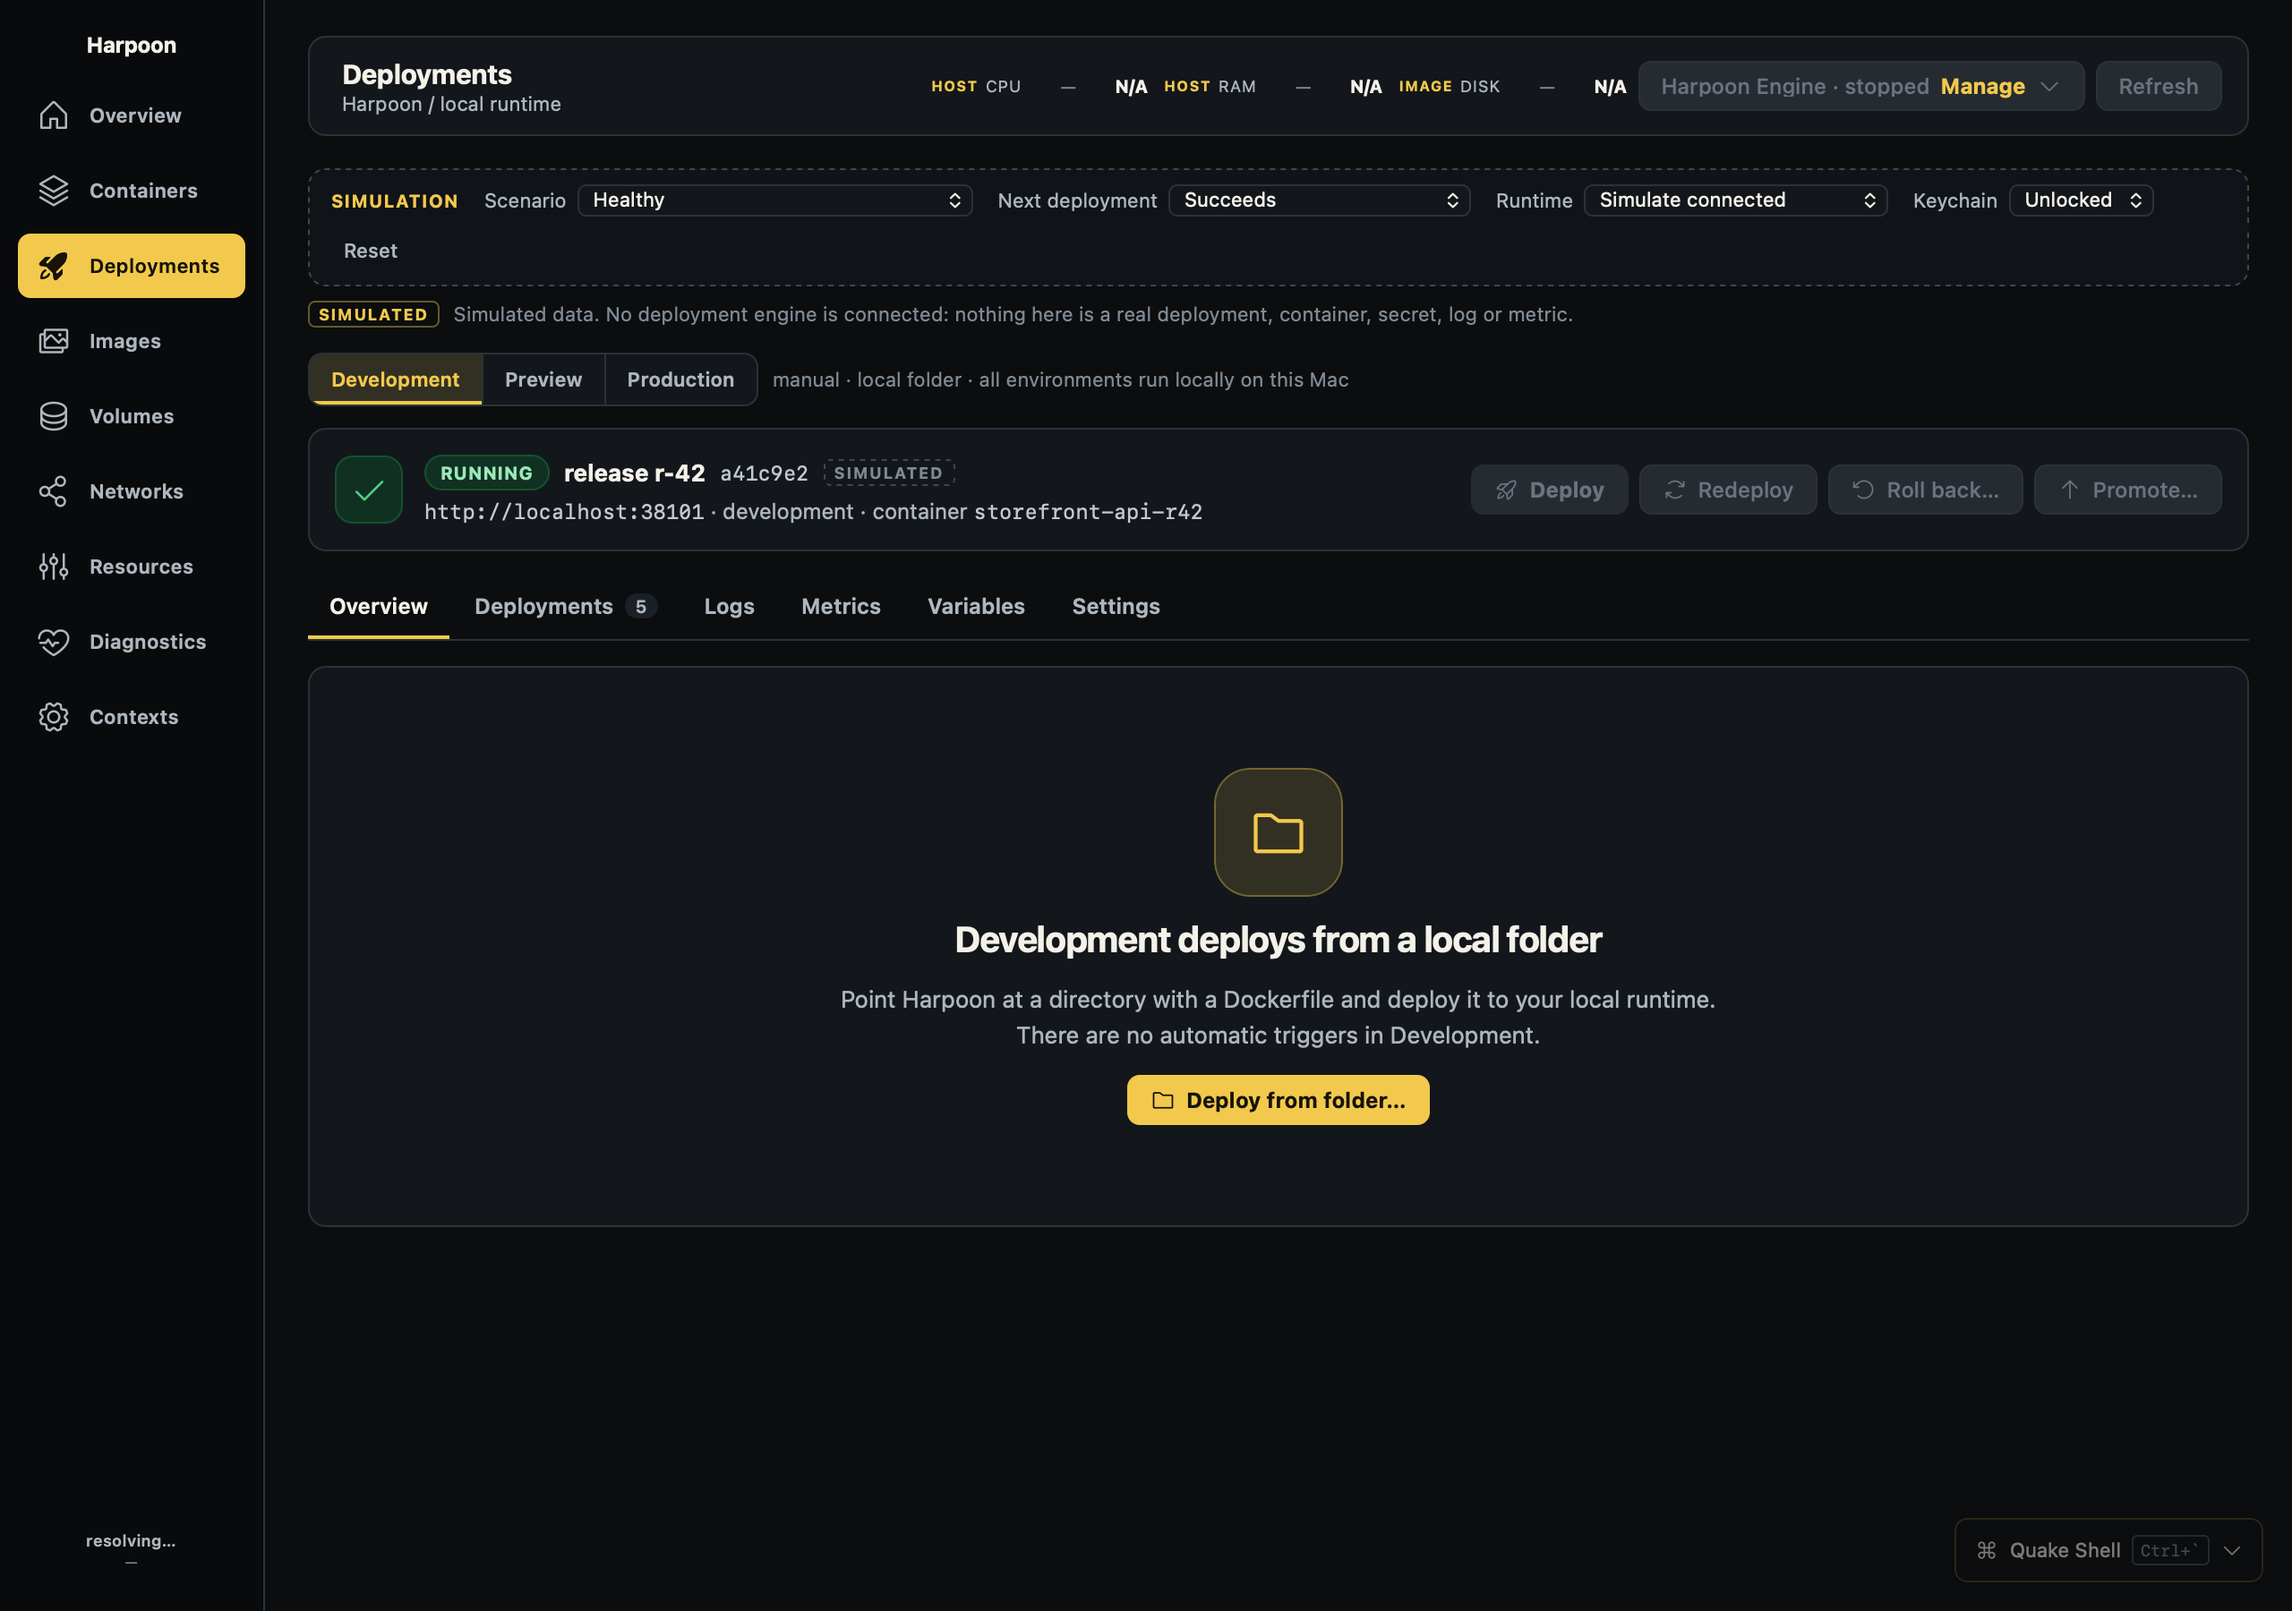
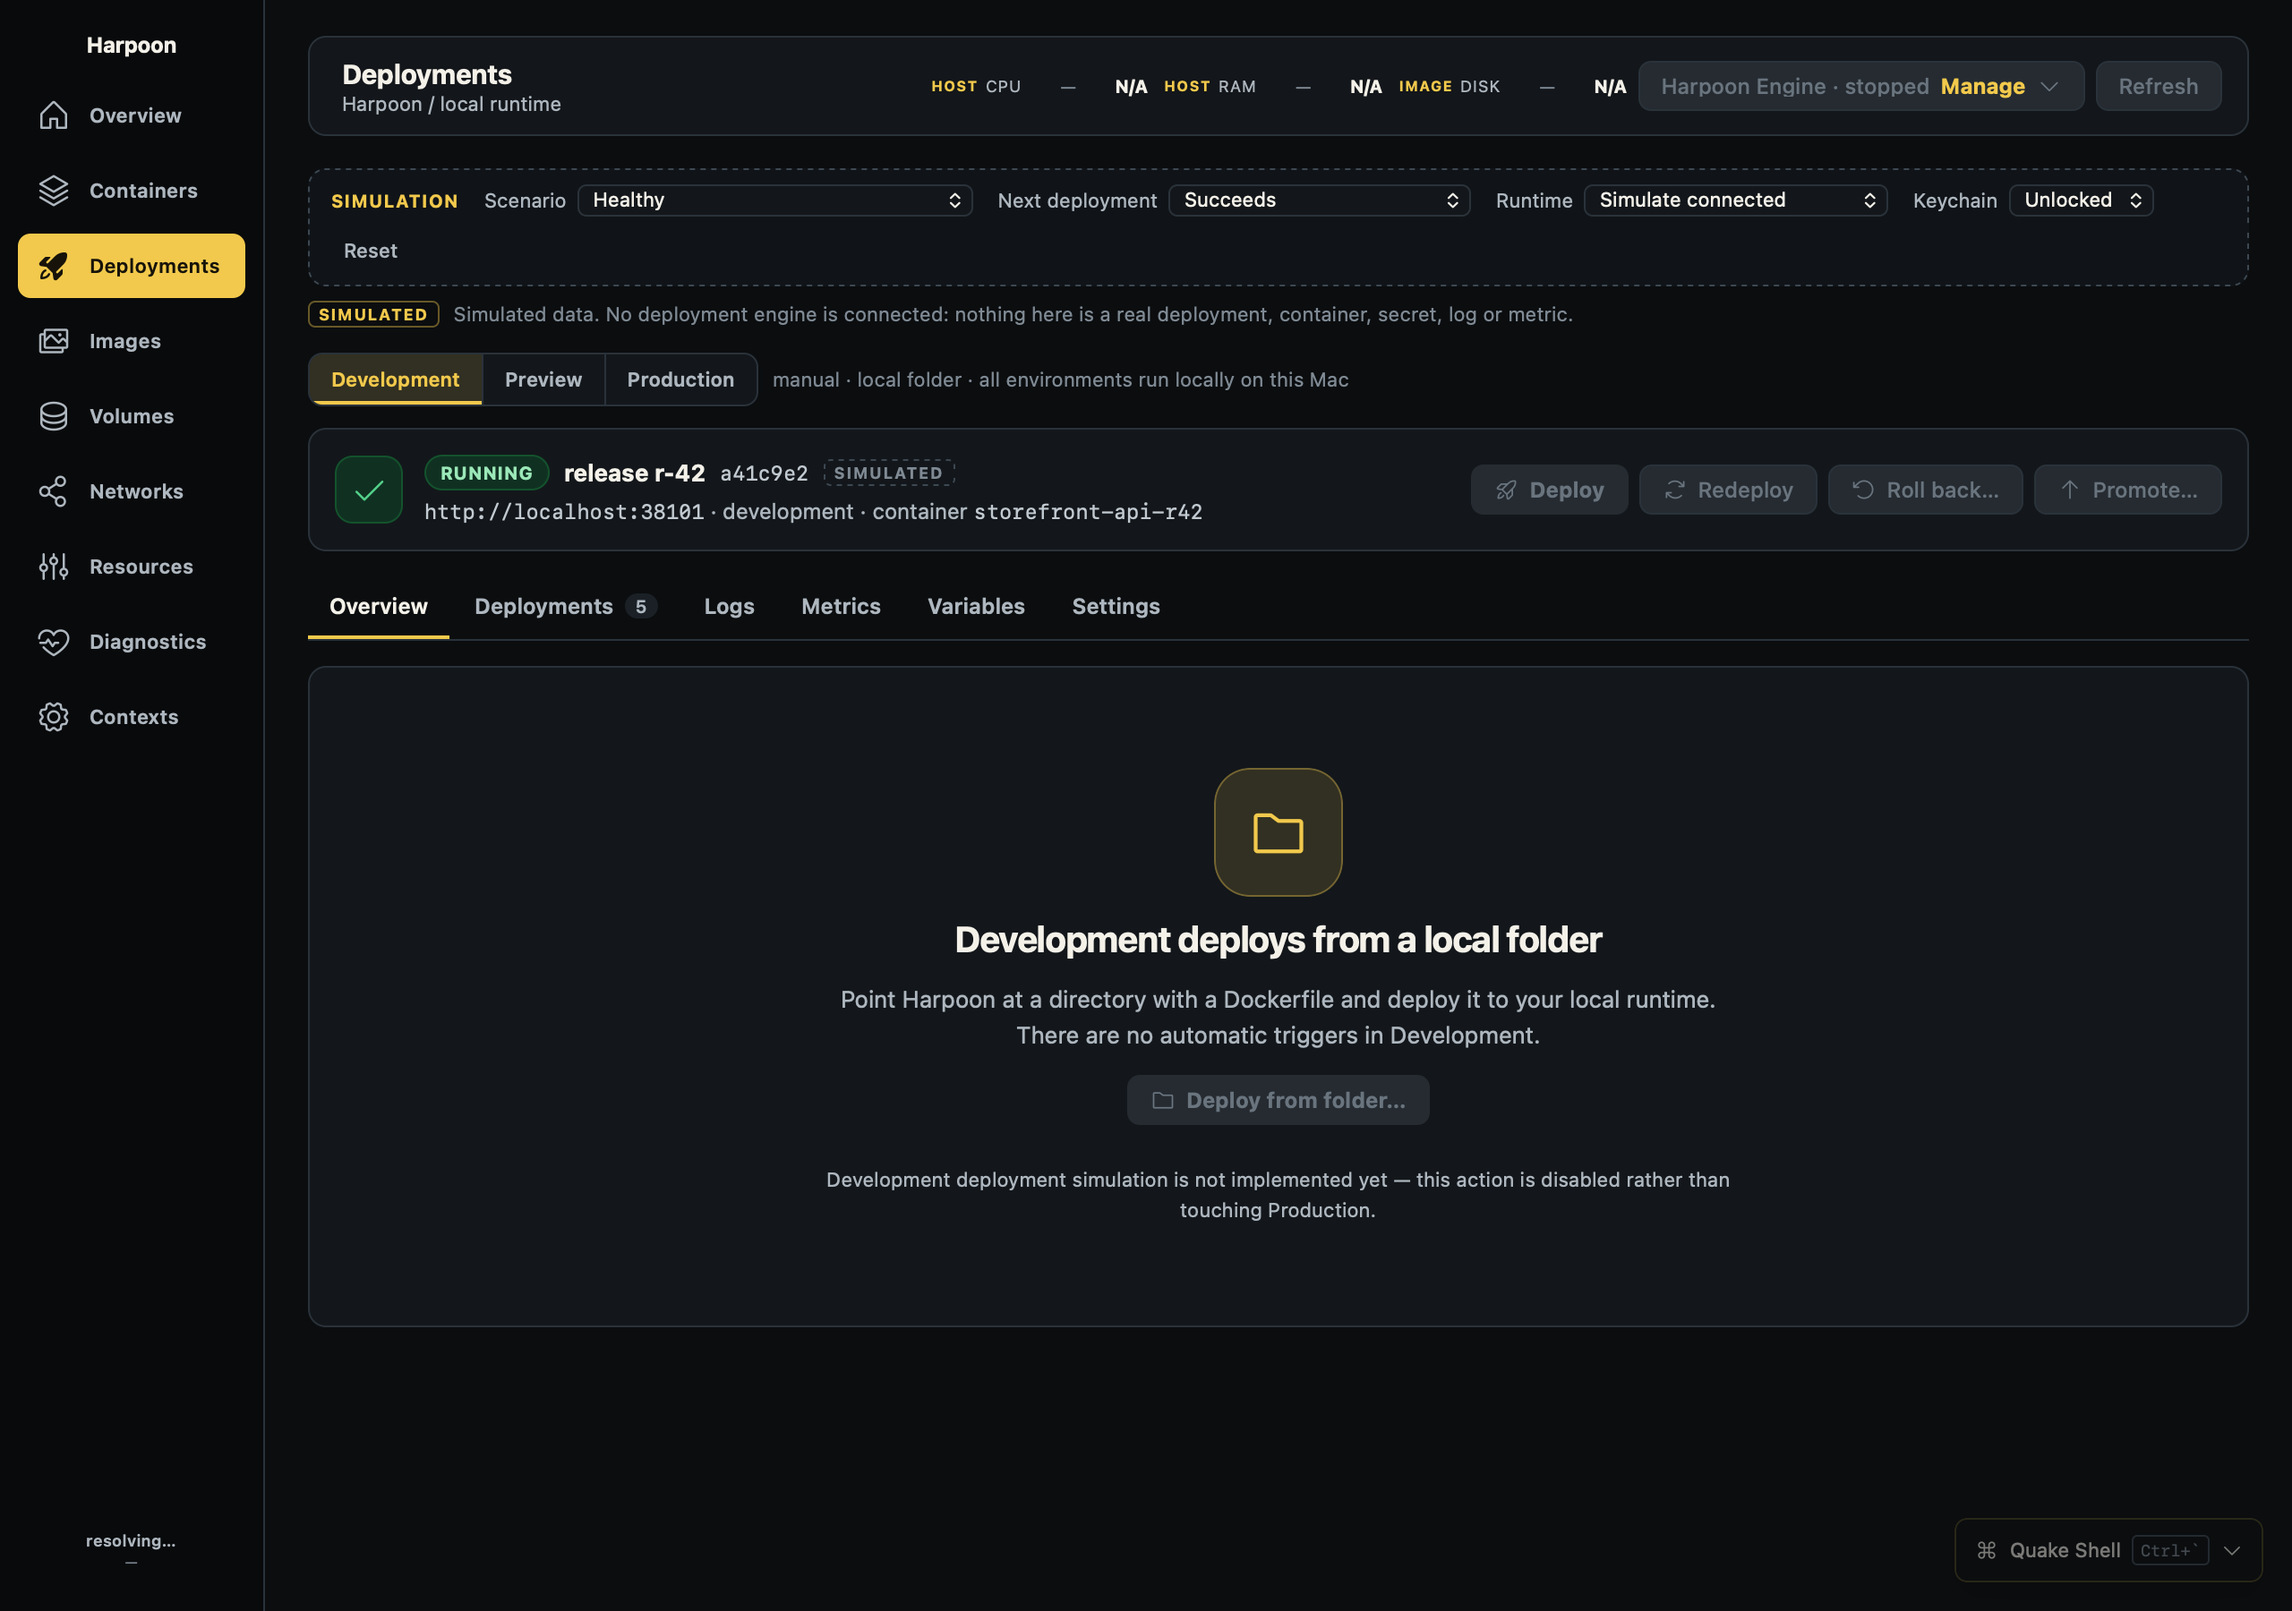
deploy-ui: close remaining Development/Preview paths to Production actions
- Development 'Deploy from folder…' is disabled with an explanation (Development deployment is not simulated yet)
- attention/recovery/paused banners and the Automation panel disable Retry recovery, Roll back and Resume outside Production
- home attention banner opens the application on Production
- dialogAllowed() refuses every Production-changing dialog on a non-Production route, both when opening and when rendering
- click-through sweeps 4 scenarios x Development/Preview x 6 tabs + deployment detail for any enabled mutating control

Changed region(s): [[0.375, 0.6533, 0.625, 0.7778], [0.625, 0.7156, 0.75, 0.7467]]

diff --git a/ui/harpoon-desktop/src/views/deploy/Screens.tsx b/ui/harpoon-desktop/src/views/deploy/Screens.tsx
@@ -68,7 +68,7 @@ export function HomeScreen({ c }: { c: Ctx }) {
       </div>
       {needs.map((n) => (
         <Banner key={n.app.id} tone={n.attention.tone === "err" ? "err" : "warn"} title={`${n.app.projectId} / ${n.app.name} needs attention`}
-          actions={btn("btn--primary", () => c.setRoute({ screen: "app", appId: n.app.id, tab: "overview" }), `Open ${n.app.name}`)}>
+          actions={btn("btn--primary", () => c.setRoute({ screen: "app", appId: n.app.id, tab: "overview", env: "production" }), `Open ${n.app.name}`)}>
           {n.attention.text}{n.app.automation.state === "paused" ? " Automatic deployments are paused." : ""}
         </Banner>
       ))}
@@ -120,13 +120,13 @@ export function AppScreen({ c }: { c: Ctx }) {
       </div>
       {att && <Banner tone={att.tone} title={att.title}
         actions={<>
-          {down && btn("btn--primary", () => c.open({ kind: "recover" }), <><ArrowCounterClockwise size={14} /> Retry recovery</>, { disabled: !ok })}
-          {down && rollbackTarget && btn("btn--secondary", () => c.open({ kind: "rollback", releaseId: rollbackTarget.id }), `Roll back to ${rollbackTarget.deploymentId}`, { disabled: !ok })}
+          {down && btn("btn--primary", () => c.open({ kind: "recover" }), <><ArrowCounterClockwise size={14} /> Retry recovery</>, { disabled: !ok || !prod, title: prodOnly })}
+          {down && rollbackTarget && btn("btn--secondary", () => c.open({ kind: "rollback", releaseId: rollbackTarget.id }), `Roll back to ${rollbackTarget.deploymentId}`, { disabled: !ok || !prod, title: prodOnly })}
           {latest && btn("btn--secondary", () => c.setRoute({ screen: "dep", depId: latest.id }), `Inspect ${latest.id}`)}
         </>}>{att.text}</Banner>}
       {paused && ok && (
         <Banner tone="warn" icon={<PausedIcon />} title="Automatic deployments are paused"
-          actions={btn("btn--primary", () => c.open({ kind: "resume" }), <><Play size={14} /> Review &amp; resume…</>)}>
+          actions={btn("btn--primary", () => c.open({ kind: "resume" }), <><Play size={14} /> Review &amp; resume…</>, { disabled: !prod, title: prodOnly })}>
           {pauseText(app)} <b>{app.automation.held.length} push{app.automation.held.length === 1 ? "" : "es"} held</b> — nothing was discarded. Manual deployments still work.
         </Banner>
       )}
@@ -233,7 +233,7 @@ function OverviewTab({ c, app }: { c: Ctx; app: AppModel }) {
               <dt>State</dt><dd>{!ok ? "Not watching — automatic deployment only runs while Harpoon is running" : a.state === "paused" ? <>{pauseText(app)}<div className="dp-faint">since {formatAge(a.sinceMin ?? 0)}</div></> : "Watching for pushes"}</dd>
               <dt>Held events</dt><dd>{a.held.length ? a.held.map((h) => <div key={h.id}><span className="mono">{h.revision.sha}</span> {h.revision.message} <span className="dp-faint">{formatAge(h.ageMin)}</span></div>) : "None"}</dd>
             </dl>
-            {a.state === "paused" && ok && <div style={{ marginTop: 12 }}>{btn("btn--primary", () => c.open({ kind: "resume" }), <><Play size={14} /> Review &amp; resume…</>)}</div>}
+            {a.state === "paused" && ok && <div style={{ marginTop: 12 }}>{btn("btn--primary", () => c.open({ kind: "resume" }), <><Play size={14} /> Review &amp; resume…</>, { disabled: c.route.env !== "production", title: c.route.env !== "production" ? "Simulated Deployments only models Production release state. Switch to Production to use this action." : undefined })}</div>}
             <p className="dp-faint" style={{ fontSize: 11, margin: "10px 0 0" }}>Pushes that arrive while no Harpoon process is running are found on the next run and shown as <i>late</i>, never dropped.</p>
           </div>
         </section>
@@ -278,7 +278,8 @@ function DevTab({ c }: { c: Ctx }) {
   return (
     <div className="dp-panel dp-empty"><div className="art"><FolderSimple size={34} /></div><h2>Development deploys from a local folder</h2>
       <p>Point Harpoon at a directory with a Dockerfile and deploy it to your local runtime. There are no automatic triggers in Development.</p>
-      {btn("btn--primary", () => c.open({ kind: "deploy" }), <><FolderSimple size={14} /> Deploy from folder…</>, { disabled: !connected(c) })}</div>
+      {btn("btn--primary", () => c.open({ kind: "deploy" }), <><FolderSimple size={14} /> Deploy from folder…</>, { disabled: true, title: "Development deployment is not simulated yet." })}
+      <p className="dp-faint" style={{ fontSize: 11, margin: "10px 0 0" }}>Development deployment simulation is not implemented yet — this action is disabled rather than touching Production.</p></div>
   );
 }
 

diff --git a/ui/harpoon-desktop/src/views/deploy/DeployView.tsx b/ui/harpoon-desktop/src/views/deploy/DeployView.tsx
@@ -5,7 +5,7 @@ import type { KeychainState, NextOutcome, RuntimeState, ScenarioId } from "../..
 import { SIMULATION_NOTE } from "../../lib/deployPresentation.ts";
 import { SCENARIOS, type DeployPreview } from "../../lib/deployPreview.ts";
 import { Banner } from "./parts.tsx";
-import type { Ctx, DialogState, Route } from "./context.ts";
+import { dialogAllowed, type Ctx, type DialogState, type Route } from "./context.ts";
 import { AppScreen, DeploymentScreen, HomeScreen } from "./Screens.tsx";
 import { DeployDialogs } from "./Dialogs.tsx";
 import { Play } from "@phosphor-icons/react";
@@ -63,8 +63,10 @@ export function DeployView({ sim, realRuntime, onStartHarpoon, preview: previewP
     else onStartHarpoon();
   }, [runtimeOverride, onStartHarpoon, setRuntimeOverride]);
 
-  const ctx: Ctx = useMemo(() => ({ state, runtime, runtimeSource: runtimeOverride ? "simulated" : "harpoon", route, setRoute, dispatch, open: setDialog, startRuntime }),
-    [state, runtime, runtimeOverride, route, setRoute, dispatch, startRuntime]);
+  // Production-changing dialogs are refused outside the Production route, even if a button is missed.
+  const guardedOpen = useCallback((d: DialogState | null) => { if (d && !dialogAllowed(d, route.env)) return; setDialog(d); }, [route.env]);
+  const ctx: Ctx = useMemo(() => ({ state, runtime, runtimeSource: runtimeOverride ? "simulated" : "harpoon", route, setRoute, dispatch, open: guardedOpen, startRuntime }),
+    [state, runtime, runtimeOverride, route, setRoute, dispatch, startRuntime, guardedOpen]);
 
   const showBanner = runtime !== "connected";
   return (
@@ -90,7 +92,7 @@ export function DeployView({ sim, realRuntime, onStartHarpoon, preview: previewP
         </Banner>
       )}
       {route.screen === "home" ? <HomeScreen c={ctx} /> : route.screen === "dep" ? <DeploymentScreen c={ctx} /> : <AppScreen c={ctx} />}
-      {dialog ? <DeployDialogs c={ctx} dialog={dialog} /> : null}
+      {dialog && dialogAllowed(dialog, route.env) ? <DeployDialogs c={ctx} dialog={dialog} /> : null}
     </div>
   );
 }

diff --git a/ui/harpoon-desktop/src/views/deploy/context.ts b/ui/harpoon-desktop/src/views/deploy/context.ts
@@ -25,3 +25,7 @@ export type Ctx = {
   open: (d: DialogState | null) => void;
   startRuntime: () => void;
 };
+
+/** Dialogs that start or change Production state; the simulation models Production only. */
+const PRODUCTION_ONLY: DialogState["kind"][] = ["deploy", "redeploy", "promote", "retry", "rollback", "recover", "resume"];
+export const dialogAllowed = (d: DialogState, env: Env): boolean => env === "production" || !PRODUCTION_ONLY.includes(d.kind);
